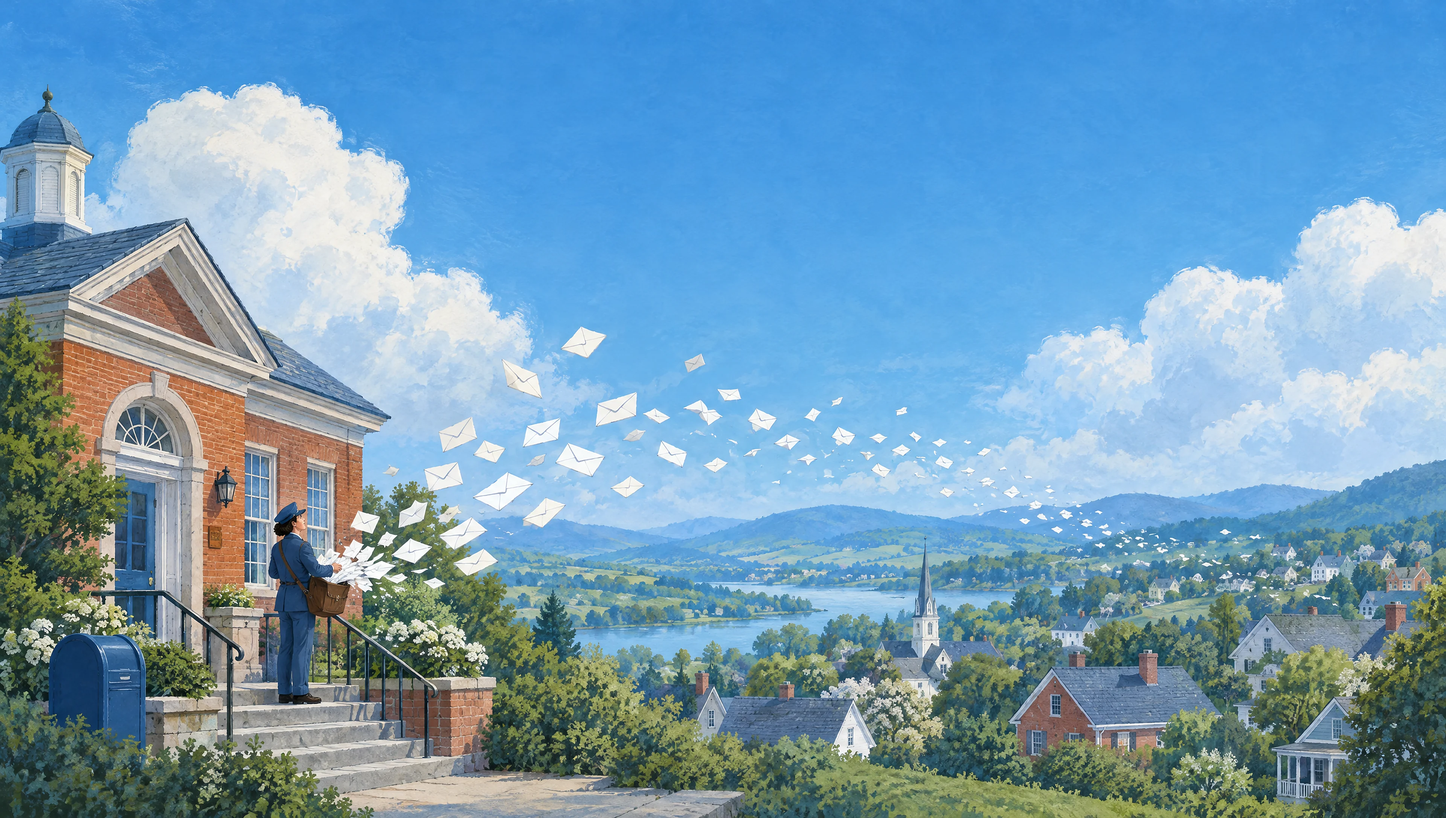
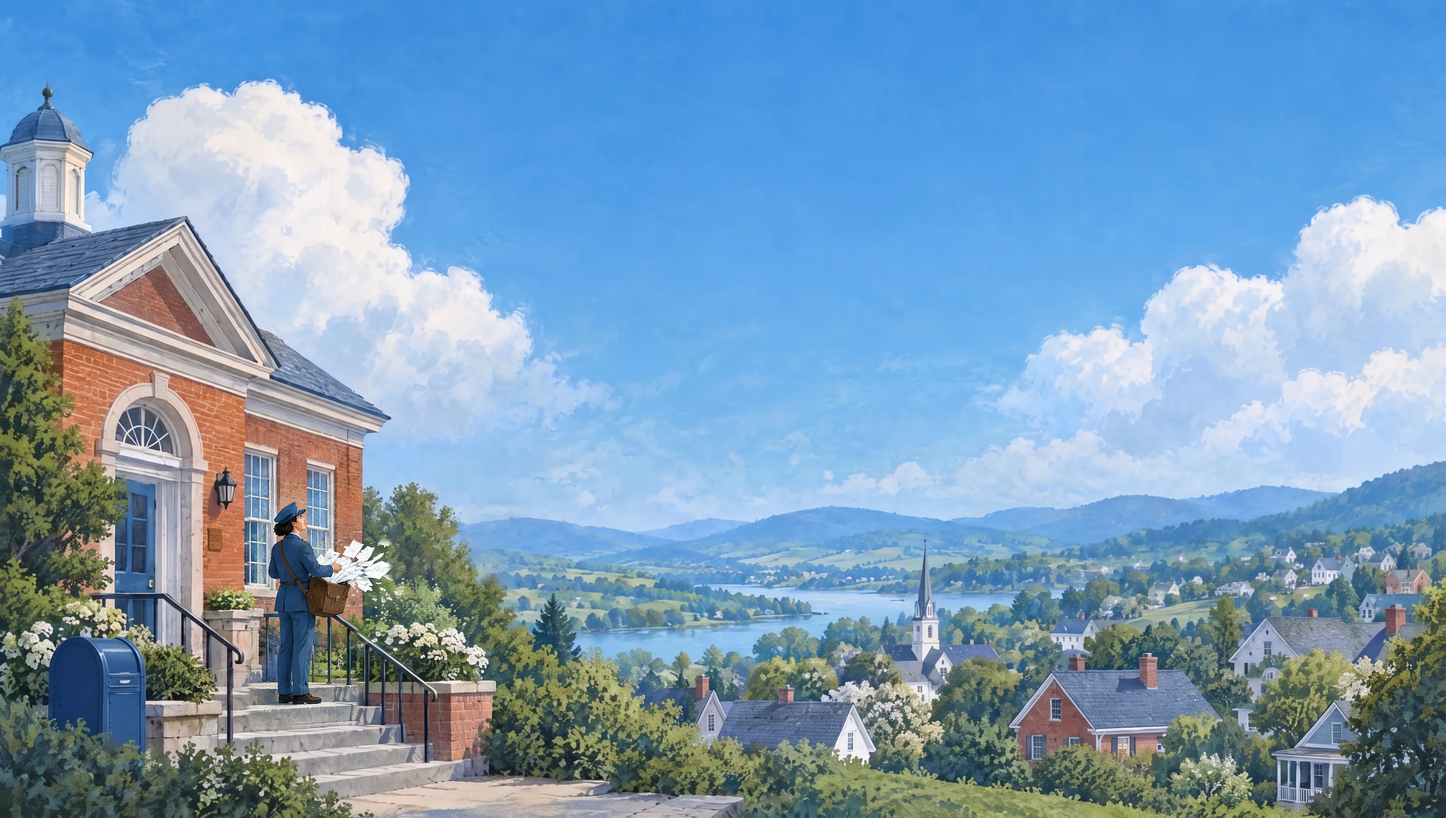
Dispatch hero: the mail flies out of the bag
The painted envelope stream is gone from the painting (Nano Banana Pro repaint, original
carrier composited back); every envelope in the sky is now live: s/dispatch-flock.js
throws them from the satchel, flutters them along the old stream as one flock, and dives
each to a house in the village with a small glint. Swerves round the pointer; hovering
Start Dispatch free throws a handful. Reduced motion: still painting, no flock.
Wired through products_v3.py extra_js so build_funnel rebuilds keep it.

diff --git a/s/dispatch-flock.js b/s/dispatch-flock.js
@@ -1,0 +1,202 @@
+/* Dispatch hero: the mail flies out of the bag like a flock.
+   - Envelopes leave the carrier's satchel and flutter like wings (beat, then glide),
+     ride the painted stream toward the valley as one loose, breathing flock, then peel off
+     one by one and dive to a house in the village. A small warm glint marks each delivery.
+   - Sizes follow the painting's perspective: big near the bag, small over the far village,
+     a little bigger again when one dives to a near house.
+   - The pointer is a hawk: envelopes swerve around it and spring back into the flock.
+     Hovering "Start Dispatch free" makes the carrier toss a fresh handful.
+   - All positions are fractions of the painting, mapped through object-fit:cover exactly as
+     hero.js maps its glows, so the bag stays the bag at every screen size.
+   The painting has no envelopes in the sky (only the bundle in her hands): all the mail you see is live.
+   Reduced motion: nothing moves; the carrier stands with her bundle under an empty sky. */
+(function () {
+  var hero = document.querySelector(".phero");
+  var img = hero && hero.querySelector(".art img");
+  if (!img || !window.requestAnimationFrame) return;
+  if (window.matchMedia && matchMedia("(prefers-reduced-motion: reduce)").matches) return;
+
+  // the stream, in painting fractions: out of the bag, up over the hedge, across the sky, down to the valley
+  var PATH = [[.236, .676], [.262, .628], [.300, .565], [.352, .505], [.420, .470], [.500, .487], [.580, .515], [.660, .548], [.735, .590], [.800, .632]];
+  // houses that receive mail: [x, y] in painting fractions (windows / doors)
+  var HOUSES = [[.792, .703], [.846, .690], [.905, .699], [.962, .686], [.703, .712], [.640, .762], [.865, .772], [.745, .862], [.585, .875]];
+
+  var parent = hero.querySelector(".hero-fx") || hero;
+  var cv = document.createElement("canvas");
+  cv.className = "flock"; cv.setAttribute("aria-hidden", "true");
+  cv.style.cssText = "position:absolute;inset:0;width:100%;height:100%;pointer-events:none;z-index:1";
+  parent.appendChild(cv);
+  var ctx = cv.getContext("2d");
+
+  // Catmull-Rom through PATH, resampled evenly by length so speed reads constant
+  var LUT = (function () {
+    var raw = [], i, j;
+    for (i = 0; i < PATH.length - 1; i++) {
+      var p0 = PATH[Math.max(0, i - 1)], p1 = PATH[i], p2 = PATH[i + 1], p3 = PATH[Math.min(PATH.length - 1, i + 2)];
+      for (j = 0; j < 40; j++) {
+        var t = j / 40, t2 = t * t, t3 = t2 * t;
+        raw.push([
+          .5 * (2 * p1[0] + (-p0[0] + p2[0]) * t + (2 * p0[0] - 5 * p1[0] + 4 * p2[0] - p3[0]) * t2 + (-p0[0] + 3 * p1[0] - 3 * p2[0] + p3[0]) * t3),
+          .5 * (2 * p1[1] + (-p0[1] + p2[1]) * t + (2 * p0[1] - 5 * p1[1] + 4 * p2[1] - p3[1]) * t2 + (-p0[1] + 3 * p1[1] - 3 * p2[1] + p3[1]) * t3)
+        ]);
+      }
+    }
+    raw.push(PATH[PATH.length - 1]);
+    var acc = [0];
+    for (i = 1; i < raw.length; i++) acc.push(acc[i - 1] + Math.hypot(raw[i][0] - raw[i - 1][0], (raw[i][1] - raw[i - 1][1]) * .566));
+    var out = [], k = 0, N = 240, L = acc[acc.length - 1];
+    for (i = 0; i <= N; i++) {
+      var d = L * i / N;
+      while (k < acc.length - 2 && acc[k + 1] < d) k++;
+      var f = (d - acc[k]) / ((acc[k + 1] - acc[k]) || 1);
+      out.push([raw[k][0] + (raw[k + 1][0] - raw[k][0]) * f, raw[k][1] + (raw[k + 1][1] - raw[k][1]) * f]);
+    }
+    return out;
+  })();
+  function along(s) {
+    var f = Math.max(0, Math.min(1, s)) * (LUT.length - 1), i = Math.min(LUT.length - 2, Math.floor(f)), r = f - i;
+    var a = LUT[i], b = LUT[i + 1];
+    return [a[0] + (b[0] - a[0]) * r, a[1] + (b[1] - a[1]) * r, Math.atan2((b[1] - a[1]) * .566, b[0] - a[0])];
+  }
+
+  // painting -> hero pixels (object-fit:cover with the computed object-position)
+  var W = 0, H = 0, dpr = 1, dw = 1, dh = 1, ox = 0, oy = 0, copyR = null, small = false;
+  function layout() {
+    W = hero.clientWidth; H = hero.clientHeight;
+    dpr = Math.min(2, window.devicePixelRatio || 1);
+    cv.width = Math.round(W * dpr); cv.height = Math.round(H * dpr);
+    var nw = img.naturalWidth || 3840, nh = img.naturalHeight || 2172;
+    var s = Math.max(W / nw, H / nh); dw = nw * s; dh = nh * s;
+    var pos = getComputedStyle(img).objectPosition.split(" ");
+    var px = parseFloat(pos[0]) / 100, py = parseFloat(pos[1] || "50") / 100;
+    if (isNaN(px)) px = .5; if (isNaN(py)) py = .5;
+    ox = (W - dw) * px; oy = (H - dh) * py;
+    small = W < 700;
+    // the words: envelopes passing behind the headline and copy go quieter so the text stays easy to read
+    var copy = hero.querySelector(".copy"), hr = hero.getBoundingClientRect();
+    if (copy) {
+      var h1 = copy.querySelector("h1"), last = copy.querySelector(".lines") || copy;
+      var a = (h1 || copy).getBoundingClientRect(), b = last.getBoundingClientRect();
+      copyR = { l: Math.min(a.left, b.left) - hr.left, r: Math.max(a.right, b.right) - hr.left, t: a.top - hr.top, b: b.bottom - hr.top };
+    }
+  }
+  function X(fx) { return ox + fx * dw; }
+  function Y(fy) { return oy + fy * dh; }
+  function depth(fy) { return fy < .66 ? .0062 : .0062 + (fy - .66) * .055; } // envelope width at a house, painting fractions
+
+  var flock = [], glints = [], mouse = { x: -9999, y: -9999 }, clock = 0, nextPuff = 0, lastToss = -9;
+  function rnd(a, b) { return a + Math.random() * (b - a); }
+  function spawn(delay) {
+    if (flock.length >= (small ? 45 : 110)) return;
+    var tgt = HOUSES[(Math.random() * HOUSES.length) | 0];
+    flock.push({
+      s: -delay * .16, v: rnd(.12, .17), off: rnd(-1, 1), offB: rnd(0, 6.28), ph: rnd(0, 6.28), flapF: rnd(9, 13),
+      roll: rnd(-.6, .6), rollV: rnd(-1.4, 1.4), size: rnd(.78, 1.22), peel: tgt[1] > .74 ? rnd(.62, .8) : rnd(.82, 1),
+      tgt: tgt, stage: 0, dt: 0, from: null, px: 0, py: 0, vx: 0, vy: 0
+    });
+  }
+  function toss(n, over) { for (var i = 0; i < n; i++) spawn(over * i / n + rnd(0, .15)); }
+
+  function envelope(x, y, w, ang, roll, flap, alpha) {
+    // flap (-1..1) is the wing beat: the sheet tips toward and away from us, so it reads as
+    // paper fluttering, and when it tips past edge-on you see the plain back of the envelope
+    var h = w * .64, sx = Math.cos(roll), sy = Math.cos(flap * 2), back = sy < 0;
+    if (Math.abs(sx) < .14) sx = sx < 0 ? -.14 : .14;
+    sy = Math.max(.16, Math.abs(sy));
+    ctx.save();
+    ctx.translate(x, y); ctx.rotate(ang); ctx.scale(sx, sy);
+    ctx.globalAlpha = alpha;
+    ctx.fillStyle = back ? "#E4E3DE" : "#F8F6F1";
+    ctx.beginPath(); ctx.rect(-w / 2, -h / 2, w, h); ctx.fill();
+    ctx.lineWidth = Math.max(.7, w * .03) / sy; ctx.strokeStyle = "rgba(48,62,88,.34)"; ctx.stroke();
+    if (!back) { // the face: flap V over the two lower folds, like the painted ones
+      ctx.beginPath(); ctx.moveTo(-w / 2, -h / 2); ctx.lineTo(0, h * .1); ctx.lineTo(w / 2, -h / 2);
+      ctx.moveTo(-w / 2, h / 2); ctx.lineTo(-w * .1, h * .02); ctx.moveTo(w / 2, h / 2); ctx.lineTo(w * .1, h * .02);
+      ctx.strokeStyle = "rgba(48,62,88,.24)"; ctx.stroke();
+    }
+    ctx.restore();
+  }
+
+  function step(dt) {
+    clock += dt;
+    if (clock > nextPuff) { toss(small ? 3 : rnd(5, 8), .8); nextPuff = clock + rnd(.75, 1.15); }
+    var wave = .016 * Math.sin(clock * .55); // the whole flock breathes up and down together
+    for (var i = flock.length - 1; i >= 0; i--) {
+      var e = flock[i], x, y, ang, w, a = 1, flap;
+      var beat = Math.sin(clock * e.flapF + e.ph), glide = .5 + .5 * Math.sin(clock * .9 + e.ph * 1.7);
+      e.roll += e.rollV * dt;
+      if (e.stage === 0) {
+        e.s += e.v * dt * (1.55 - .65 * Math.min(1, Math.max(0, e.s))); // tossed hard, then gliding
+        if (e.s < 0) continue;
+        var p = along(e.s), spread = .006 + .068 * Math.sin(Math.PI * Math.min(1, e.s * 1.15));
+        var nx = -Math.sin(p[2]), ny = Math.cos(p[2]);
+        var o = e.off * spread + .01 * Math.sin(clock * .8 + e.offB) * Math.min(1, e.s * 3);
+        var fx = p[0] + nx * o * .9, fy = p[1] + ny * o * 1.6 + wave * Math.min(1, e.s * 2.5) + .004 * Math.sin(clock * 1.9 + e.ph);
+        x = X(fx); y = Y(fy);
+        w = dw * (.03 + (.0068 - .03) * Math.pow(Math.min(1, e.s), 1.35)) * e.size;
+        w *= Math.min(1, .35 + e.s * 14); // grows as it clears the bag
+        ang = p[2] * .45 + .35 * Math.sin(e.roll * .7);
+        flap = beat * (.25 + .75 * glide);
+        a = 1 - .12 * e.s;
+        if (e.s >= e.peel) { e.stage = 1; e.dt = 0; e.from = [fx, fy, w / dw, ang]; e.dur = rnd(1.5, 2.2); }
+      } else {
+        e.dt += dt;
+        var k = Math.min(1, e.dt / e.dur), q = k < .5 ? 2 * k * k : 1 - Math.pow(-2 * k + 2, 2) / 2;
+        var f0 = e.from, t = e.tgt, lift = .05 * Math.sin(Math.PI * k) * (1 - k * .4);
+        var gx = f0[0] + (t[0] - f0[0]) * q, gy = f0[1] + (t[1] - f0[1]) * q - lift;
+        x = X(gx); y = Y(gy);
+        w = dw * (f0[2] + (depth(t[1]) * e.size * .75 - f0[2]) * q);
+        ang = f0[3] * (1 - q) + Math.atan2(t[1] - f0[1], (t[0] - f0[0]) || .001) * .25 * q;
+        flap = beat * (1 - q) * .8; // wings tucked for the dive
+        a = (.8 - .1 * q) * (k > .78 ? 1 - (k - .78) / .22 : 1);
+        if (k >= 1) { glints.push({ x: t[0], y: t[1], life: 0 }); flock.splice(i, 1); continue; }
+      }
+      // the hawk: swerve away from the pointer, spring back into place
+      var dx = x + e.px - mouse.x, dy = y + e.py - mouse.y, d2 = dx * dx + dy * dy, R = 120;
+      var ax = -14 * e.px - 5 * e.vx, ay = -14 * e.py - 5 * e.vy;
+      if (d2 < R * R) { var d = Math.sqrt(d2) || 1, f = Math.pow(1 - d / R, 2) * 2600; ax += dx / d * f; ay += dy / d * f; }
+      e.vx += ax * dt; e.vy += ay * dt; e.px += e.vx * dt; e.py += e.vy * dt;
+      x += e.px; y += e.py;
+      if (copyR && x > copyR.l && x < copyR.r && y > copyR.t && y < copyR.b) a *= .86;
+      e.draw = [x, y, w, ang, e.roll, flap, a];
+    }
+    for (var g = glints.length - 1; g >= 0; g--) { glints[g].life += dt; if (glints[g].life > 1.8) glints.splice(g, 1); }
+  }
+
+  function draw() {
+    ctx.setTransform(dpr, 0, 0, dpr, 0, 0);
+    ctx.clearRect(0, 0, W, H);
+    ctx.globalCompositeOperation = "screen";
+    glints.forEach(function (gl) {
+      var k = gl.life / 1.8, a = k < .15 ? k / .15 : 1 - (k - .15) / .85, r = dw * (.007 + .012 * k);
+      var gr = ctx.createRadialGradient(X(gl.x), Y(gl.y), 0, X(gl.x), Y(gl.y), r);
+      gr.addColorStop(0, "rgba(255,226,190," + (.75 * a).toFixed(3) + ")");
+      gr.addColorStop(.35, "rgba(255,214,170," + (.28 * a).toFixed(3) + ")");
+      gr.addColorStop(1, "rgba(255,214,170,0)");
+      ctx.fillStyle = gr; ctx.beginPath(); ctx.arc(X(gl.x), Y(gl.y), r, 0, 6.2832); ctx.fill();
+    });
+    ctx.globalCompositeOperation = "source-over";
+    // far ones first, so near envelopes pass in front
+    flock.filter(function (e) { return e.draw && e.s >= 0; }).sort(function (a, b) { return a.draw[2] - b.draw[2]; })
+      .forEach(function (e) { envelope.apply(null, e.draw); });
+  }
+
+  var visible = true, last = 0, running = false;
+  function frame(now) {
+    if (!visible || document.hidden) { running = false; return; }
+    var dt = Math.min(.05, (now - (last || now)) / 1000); last = now;
+    step(dt); draw();
+    requestAnimationFrame(frame);
+  }
+  function go() { if (!running) { running = true; last = 0; requestAnimationFrame(frame); } }
+
+  hero.addEventListener("pointermove", function (e) { var r = hero.getBoundingClientRect(); mouse.x = e.clientX - r.left; mouse.y = e.clientY - r.top; });
+  hero.addEventListener("pointerleave", function () { mouse.x = mouse.y = -9999; });
+  var cta = hero.querySelector(".btn.fill");
+  if (cta) cta.addEventListener("pointerenter", function () { if (clock - lastToss > 2.5) { lastToss = clock; toss(small ? 6 : 12, .7); } });
+  if ("IntersectionObserver" in window) new IntersectionObserver(function (es) { visible = es[0].isIntersecting; if (visible) go(); }).observe(hero);
+  document.addEventListener("visibilitychange", function () { if (!document.hidden) go(); });
+  window.addEventListener("resize", layout);
+  function start() { layout(); toss(small ? 18 : 40, 1.8); nextPuff = 1.6; go(); }
+  if (img.complete && img.naturalWidth) start(); else img.addEventListener("load", start);
+})();

diff --git a/dispatch/index.html b/dispatch/index.html
@@ -385,5 +385,5 @@ body{background:var(--bg);color:var(--fg)}
   C.inputs.forEach(function(i){$(i.id).addEventListener('input',run)});run()}
 })();
 </script>
-
+<script src="/s/dispatch-flock.js?v=20261021c"></script>
 </body></html>
